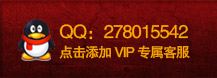
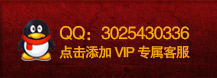
1

Changed region(s): [[0.47, 0.3077, 0.8848, 0.5128], [0.2765, 0.3077, 0.4424, 0.5128]]

diff --git a/views/topic/edit.html b/views/topic/edit.html
@@ -1,46 +1,19 @@
 <div id='sidebar'>
   <div class='panel'>
     <div class='header'>
-      <span class='col_fade'>话题发布步骤</span>
+      <span class='col_fade'>开服表发布步骤</span>
     </div>
     <div class='inner'>
       <ol>
-        <li>填写标题</li>
-        <li>填写内容</li>
-        <li>选择话题标签</li>
-        <li>确认后发布话题</li>
+        <li>填写游戏名称</li>
+        <li>填写开服时间</li>
+        <li>填写服务器名</li>
+        <li>填写爱百娱注册链接</li>
+        <li>确认无误后点击发布</li>
       </ol>
     </div>
   </div>
-  <div class='panel'>
-    <div class='header'>
-      <span class='col_fade'>话题发布指南</span>
-    </div>
-    <div class='inner'>
-      <ol>
-        <li>尽量把话题要点浓缩到标题里</li>
-        <li>内容对标题做进一步说明，但不是必须的</li>
-        <li>给话题选择合适的标签能增加被阅读的机会</li>
-      </ol>
-    </div>
-  </div>
-  <div class='panel'>
-    <div class='header'>
-      <span class='col_fade'>markdown语法参考</span>
-    </div>
-    <div class='inner'>
-      <ol>
-        <li>换行：两个空格</li>
-        <li>分段：一个空行</li>
-        <li>斜体：*斜体*</li>
-        <li>粗体：**粗体**</li>
-        <li>代码：行首四个空格</li>
-        <li>链接：[文字](url)</li>
-        <li>图片：![alt 文字](url)</li>
-      </ol>
-      <span>详见 <a href='http://www.ituring.com.cn/article/775' target='_blank'>Markdown Wiki</a></span>
-    </div>
-  </div>
+
 </div>
 
 <div id='content'>
@@ -49,9 +22,9 @@
       <ol class='breadcrumb'>
         <li><a href='/'>主页</a><span class='divider'>/</span></li>
         <% if(locals.action && action == 'edit'){ %>
-        <li class='active'>编辑话题</li>
+        <li class='active'>编辑开服</li>
         <% }else{ %>
-        <li class='active'>发布话题</li>
+        <li class='active'>发布开服</li>
         <% } %>
       </ol>
     </div>
@@ -73,17 +46,37 @@
       <form id='create_topic_form' action='/topic/create' method='post'>
       <% } %>
         <fieldset>
-          <label class='bold span2' for='game'>游戏名称:</label>
-          <textarea class=' span7' id='game' name='game' rows='1' placeholder="请在此输入游戏名称，字数少于10个字"><%= locals.game || '' %></textarea>
-          <label class='bold span2' for='open_time'>开服时间:</label>
-          <textarea class=' span7' id='open_time' name='open_time' rows='1'  placeholder="请在此输入开服时间，格式：2014-9-23 14:00"><%= locals.open_time || '' %></textarea>
-          <label class='bold span2' for='server'>服务器名:</label>
-          <textarea class=' span7' id='server' name='server' rows='1'  placeholder="请在此输入服务器名，只需输入数字即可"><%= locals.server || '' %></textarea>
-          <label class='bold span2' for='sign_url'>注册链接:</label>
-          <textarea class=' span7' id='sign_url' name='sign_url' rows='1'  placeholder="请在此输入爱百娱推广注册链接"><%= locals.sign_url || '' %></textarea>
+          <div class="control-group">
+            <label class="control-label bold span2" for="game">游戏名称:</label>
+            <div class="controls">
+              <input type="text" id="game" name="game" value="<%= locals.game || '' %>"/>
+              <span class="help-inline">请在此输入游戏名称，字数少于10个字</span>
+            </div>
+          </div><div class="control-group">
+            <label class="control-label bold span2" for="open_time">开服时间:</label>
+            <div class="controls">
+              <input type="text" id="open_time" name="open_time" value="<%= locals.open_time || '' %>"/>
+              <span class="help-inline">请在此输入开服时间，格式：2014-9-23 14:00</span>
+            </div>
+          </div><div class="control-group">
+            <label class="control-label bold span2" for="server">服务器名:</label>
+            <div class="controls">
+              <input type="text" id="server" name="server" value="<%= locals.server || '' %>"/>
+              <span class="help-inline">请在此输入服务器名，只需输入数字即可</span>
+            </div>
+          </div><div class="control-group">
+            <label class="control-label bold span2" for="sign_url">注册链接:</label>
+            <div class="controls">
+              <input type="text" id="sign_url" name="sign_url" value="<%= locals.sign_url || '' %>"/>
+              <span class="help-inline">请在此输入爱百娱推广注册链接</span>
+            </div>
+          </div>
+
 
           <input type='hidden' name='_csrf' value='<%= csrf %>' />
-          <button id='submit_btn' type="submit" class='btn'>发布</button>
+          <div class="form-actions">
+            <button id='submit_btn' type="submit" class='btn btn-primary'><i class="icon-check icon-white"></i> 发布开服表</button>
+          </div>
         </fieldset>
       </form>
     </div>
@@ -101,6 +94,7 @@
 %>
 <script>
 $(function () {
+
   $('.tag_selectable').click(function(){
     $(this).toggleClass('tag_select');
   });
@@ -114,6 +108,23 @@ $(function () {
     });
     $('#topic_tags').val(values);
     $('#create_topic_form').submit();
+    return false
   });
+  $('#create_topic_form').submit(function(){
+    $.post($(this).attr('action'),$(this).serialize(),function(data){
+      if(data.success === 1){ //发布成功后跳转到首页，uid为发布者的id
+        location.href = 'http://' + location.host+ '/?uid=' + data.topic.author_id;
+      }else{
+        for(var k in data.err){
+          $('[name="'+k+'"]').parents(".control-group").addClass("error");
+        }
+      }
+    })
+    return false;
+  });
+  $("input").focus(function(){
+    $(this).parents(".control-group").removeClass("error")
+  });
+
 });
 </script>

diff --git a/controllers/topic.js b/controllers/topic.js
@@ -76,5 +76,55 @@ exports.put = function(req, res, next){
 	}else{
 		res.send({success:0,err:editError})
 	}
+}
 
+exports.update = function(req, res, next) {//更新开服信息
+	var tid = req.params.tid || '';
+	var proxy = new EventProxy;
+	Topic.getTopicById(tid, proxy.done('tid',function(topic, author) {
+		return topic;
+	}));
+	proxy.on('tid',function(topic){
+		if(topic.author_id == req.session.user._id || req.session.user.is_admin){
+			proxy.emit('author', topic);
+		}else{
+			res.send('Forbidden',403);
+		}
+	});
+	proxy.on('author',function(oldTopic){
+		var topic = {};
+		topic.game = sanitize(req.body.game || '').trim();
+		topic.open_time = new Date(sanitize(req.body.open_time || '').trim());
+		topic.server = parseInt(sanitize(req.body.server || '').trim());
+		topic.sign_url = sanitize(req.body.sign_url || '').trim();
+
+		//检测参数是否合法：
+		var editError = {};
+		if(typeof topic.game !== 'string' || topic.game.length <= 0 || topic.game.length >= 10){
+			editError.game = '游戏名称不合法';
+		}
+		if(topic.open_time == 'Invalid Date'){
+			editError.open_time = '开服时间不合法';
+		}
+		if(isNaN(topic.server)){
+			editError.server = '服务器名称不合法';
+		}
+		if(!(/^(http:\/\/)?lj\.ibaiyu\.cn\/(4372)?Tg\.html\?action=([A-Z0-9])+/.test(topic.sign_url))){
+			editError.sign_url='注册链接不合法';
+		}
+		topic.sign_url = (topic.sign_url.indexOf('http://') === 0 ? topic.sign_url : 'http://' + topic.sign_url);
+		//如果检测参数无误，则存储结果
+		if(Util.equals(editError,{})){
+			Topic.update(oldTopic, topic, function(err, topic){
+				if(err){
+					return next(err);
+				}
+				res.send({success:1,topic:topic});
+			});
+
+		}else{
+			res.send({success:0,err:editError})
+		}
+
+	})
 }

diff --git a/public/stylesheets/index.css b/public/stylesheets/index.css
@@ -18,6 +18,30 @@ body #main{
   height: 1550px;
   margin: 0 auto;
 }
+.top_banner{
+  position: absolute;
+  top: 299px;
+}
+.top_banner a{
+  display: block;
+  width: 217px;
+  height: 78px;
+  margin-right: 37px;
+  float: left;
+}
+#vip_kf{
+  margin-left: 218px;
+  background: url('../images/btn_10.jpg');
+}
+#vip_kf:hover{
+  background: url('../images/btn_hover_10.jpg');
+}
+#signup{
+  background: url('../images/btn_12.jpg');
+}
+#signup:hover{
+  background: url('../images/btn_hover_12.jpg');
+}
 #content{
   position: absolute;
   top: 427px;
@@ -39,6 +63,9 @@ body #main{
   display: block;
   float: right;
   line-height: 40px;
+}
+.pagination{
+  text-align: right;
 }
 .pagination ul{
   background: #fff;
@@ -70,6 +97,12 @@ body #main{
   display: block;
   text-align: center;
   color: #5a5650;
+}
+.topic_list .bd li i{
+  cursor: pointer;
+}
+.topic_list .bd li i:hover{
+  background-color: #555;
 }
 #footer {
   margin-top: 30px;

diff --git a/views/topic/abstract.html b/views/topic/abstract.html
@@ -2,5 +2,11 @@
   <span class="col_01"><%= topic.friendly_open_time %></span>
   <span class="col_02"><%= topic.game %></span>
   <span class="col_03"><a target="_blank" href="<%= topic.sign_url %>">双线<%= topic.server %>服</a></span>
-  <span class="col_04"><a href="<%= topic.sign_url %>"><button class="btn btn-small btn-success">进入游戏</button></a></span></li>
+  <span class="col_04"><a class="btn btn-small btn-success" href="<%= topic.sign_url %>">进入游戏</a></span>
+
+  <% if (locals.current_user && (locals.current_user._id == topic.author_id || locals.current_user.is_admin)) { %>
+  <a href="/topic/<%= topic._id %>/edit"><i title="编辑开服信息" class="icon-edit"></i></a>
+  <i title="删除开服信息" class="icon-remove"></i>
+  <% } %>
+</li>
 

diff --git a/views/index.html b/views/index.html
@@ -1,4 +1,9 @@
 
+<div class="top_banner clearfix">
+  <a id="vip_kf" href="tencent://message/?uin=3025430336&Site=%E6%9F%90%E6%9F%90&Menu=yes" title="点击添加VIP专属客服"></a>
+  <a id="signup" href="http://www.ibaiyu.cn/4372reg.aspx" title="点击注册爱百娱账号"></a>
+</div>
+
 
 <div id="content">
   <div class="panel">
@@ -26,3 +31,10 @@
     </div>
   </div>
 </div>
+<script>
+  $(".topic_list .bd li i").hover(function(){
+    $(this).addClass("icon-white");
+  },function(){
+    $(this).removeClass("icon-white");
+  })
+</script>

diff --git a/routes.js b/routes.js
@@ -46,7 +46,7 @@ module.exports = function (app) {
 	app.get('/topic/create', auth.signinRequired, topic.create);
 
   app.post('/topic/create', auth.signinRequired, topic.put);//新建开服
-	app.post('/topic/:tid/edit', topic.update);//编辑开服
+	app.post('/topic/:tid/edit',auth.signinRequired, topic.update);//编辑开服
 
 	app.get('/invitation/:num', auth.adminRequired, ajax.setHeader, sign.createInvitationCode);
 

diff --git a/proxy/topic.js b/proxy/topic.js
@@ -19,8 +19,11 @@ exports.newAndSave = function (obj, callback) {
 	topic.save(callback);
 };
 
-exports.update = function (obj, callback) {
-
+exports.update = function (old, newObj, callback) {
+	for(var i in newObj){
+		old[i] = newObj[i];
+	}
+	old.save(callback);
 }
 
 /**

diff --git a/views/layout.html b/views/layout.html
@@ -116,8 +116,6 @@
       ga('send', 'pageview');
 
     </script>
-    <script type="text/javascript">
-        console.log(<%= inspect(session.user) %>);//在浏览器端输出session.user的信息
-    </script>
+
   </body>
 </html>

diff --git a/views/topic/index.html b/views/topic/index.html
@@ -281,6 +281,7 @@
     };
   });
 </script>
+
 <% } %>
 <%- Loader('/public/fancebox.min.js', '/public/libs/fancybox/fancebox.min.css')
   .css('/public/libs/fancybox/jquery.fancybox-1.3.4.css')

diff --git a/public/stylesheets/style.css b/public/stylesheets/style.css
@@ -767,6 +767,6 @@ textarea.editor {
   margin-bottom: 10px;
 }
 #submit_btn {
-  margin-left: 639px;
   float: left;
+  margin-left: 38px;
 }

diff --git a/views/layoutIndex.html b/views/layoutIndex.html
@@ -136,6 +136,7 @@
       ga('send', 'pageview');
 
     </script>
+
   </body>
 
 </html>
